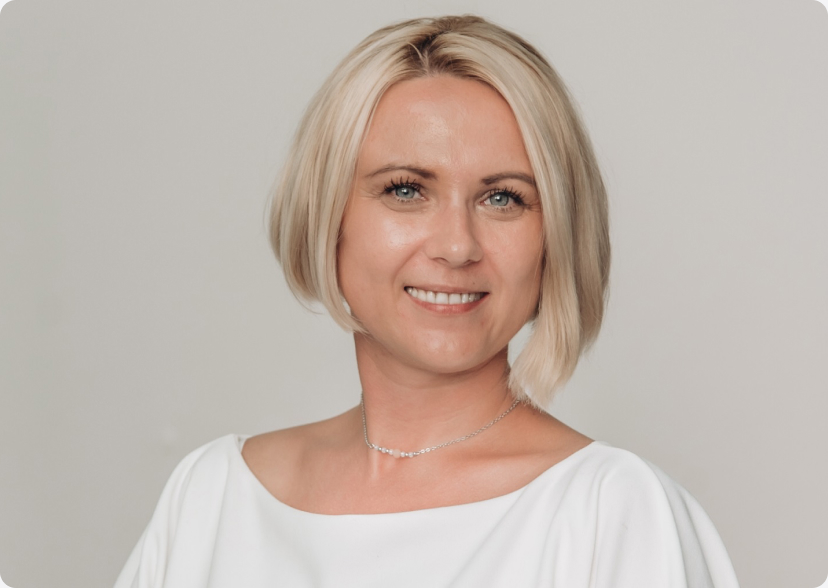
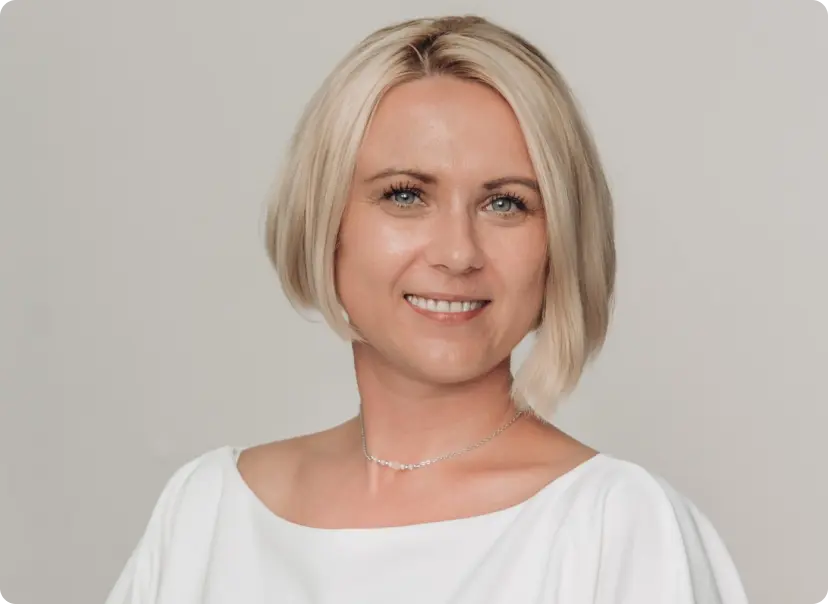
updated AboutMe

diff --git a/src/components/AboutMe/AboutMe.jsx b/src/components/AboutMe/AboutMe.jsx
@@ -1,17 +1,16 @@
-// import Foto from "../../images/desktop/olga_picture1x.jpg";
 import MediaQuery from "react-responsive";
-import Fotos from "../../images/desktop/olga_picture1x.webp";
-import Fotos2x from "../../images/desktop/olga_picture@2x.jpg";
-import Fotos1x from "../../images/desktop/olga_picture1x.jpg";
-import OlgaMob2x from "../../images/mobile/mob_olga_picture@2x.jpg";
+import OlgaDesktopWebp19201x from "../../images/desktop/olga_picture1x.webp";
+import OlgaDesktopWebp19202x from "../../images/desktop/olga_picture2x.webp";
+import OlgaDesktop19201x from "../../images/desktop/olga_picture1x.jpg";
 import OlgaMob1x from "../../images/mobile/mob_olga_picture1x.jpg";
-import OlgaMobWebp from "../../images/mobile/mob_olga_picture1x.webp";
+import OlgaMobWebp1x from "../../images/mobile/mob_olga_picture1x.webp";
+import OlgaMobWebp2x from "../../images/mobile/mob_olga_picture2x.webp";
 import OlgaTab1x from "../../images/tablet/olga_picture@1x.jpg";
-import OlgaTab2x from "../../images/tablet/olga_picture@2x.jpg";
-import OlgaTabWebp from "../../images/tablet/olga_picture@1x.webp";
+import OlgaTabWebp1x from "../../images/tablet/olga_picture@1x.webp";
+import OlgaTabWebp2x from "../../images/tablet/olga_picture@2x.webp";
 import OlgaDesktop14401x from "../../images/desktop1440/olga_picture@1x.jpg";
-import OlgaDesktop14402x from "../../images/desktop1440/olga_picture@2x.jpg";
-import OlgaDesktop1440Webp from "../../images/desktop1440/olga_picture@1x.webp";
+import OlgaDesktop1440Webp1x from "../../images/desktop1440/olga_picture@1x.webp";
+import OlgaDesktop1440Webp2x from "../../images/desktop1440/olga_picture@2x.webp";
 import Icon from "../../images/sprite.svg";
 import {
   SectionAboutMe,
@@ -38,33 +37,36 @@ const AboutMe = () => {
           <SectionAboutMeDivWidth>
             <MediaQuery maxWidth={767}>
               <SectionAboutMeImg
-                srcSet={`${OlgaMob2x} 2x, ${OlgaMob1x} 1x`}
+                srcSet={`${OlgaMobWebp2x} 2x, ${OlgaMobWebp1x} 1x`}
                 sizes="(max-width: 767px) 100vw"
-                src={OlgaMobWebp}
+                src={OlgaMob1x}
                 alt="Ольга Поліщук"
               />
             </MediaQuery>
             <MediaQuery minWidth={768} maxWidth={1439}>
               <SectionAboutMeImg
-                srcSet={`${OlgaTab2x} 2x, ${OlgaTab1x} 1x`}
+                srcSet={`${OlgaTabWebp2x} 2x, ${OlgaTabWebp1x} 1x`}
+                type="image/webp"
                 sizes="(min-width: 768px) 100vw (max-width: 1439px) 100vw"
-                src={OlgaTabWebp}
+                src={OlgaTab1x}
                 alt="Ольга Поліщук"
               />
             </MediaQuery>
             <MediaQuery minWidth={1440} maxWidth={1919}>
               <SectionAboutMeImg
-                srcSet={`${OlgaDesktop14402x} 2x, ${OlgaDesktop14401x} 1x`}
+                srcSet={`${OlgaDesktop1440Webp2x} 2x, ${OlgaDesktop1440Webp1x} 1x`}
+                type="image/webp"
                 sizes="(min-width: 1440px) 100vw (max-width: 1919px) 100vw"
-                src={OlgaDesktop1440Webp}
+                src={`${OlgaDesktop14401x}`}
                 alt="Ольга Поліщук"
               />
             </MediaQuery>
             <MediaQuery minWidth={1920}>
               <SectionAboutMeImg
-                srcSet={`${Fotos2x} 2x, ${Fotos1x} 1x`}
+                srcSet={`${OlgaDesktopWebp19202x} 2x, ${OlgaDesktopWebp19201x} 1x`}
+                type="image/webp"
                 sizes="(min-width: 1920px) 100vw"
-                src={Fotos}
+                src={OlgaDesktop19201x}
                 alt="Ольга Поліщук"
               />
             </MediaQuery>
